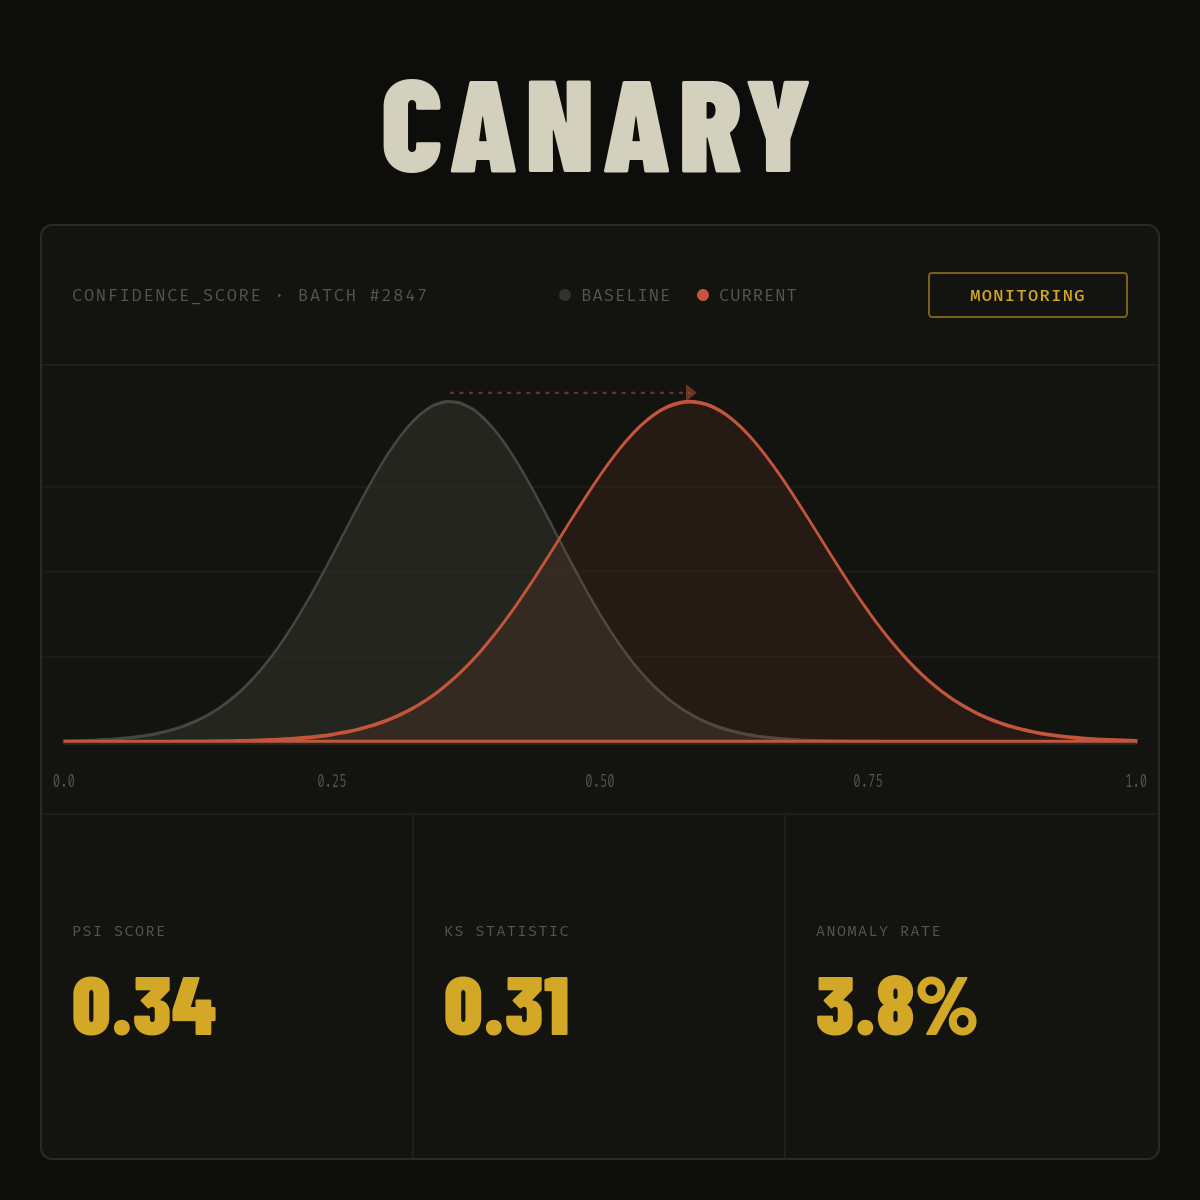
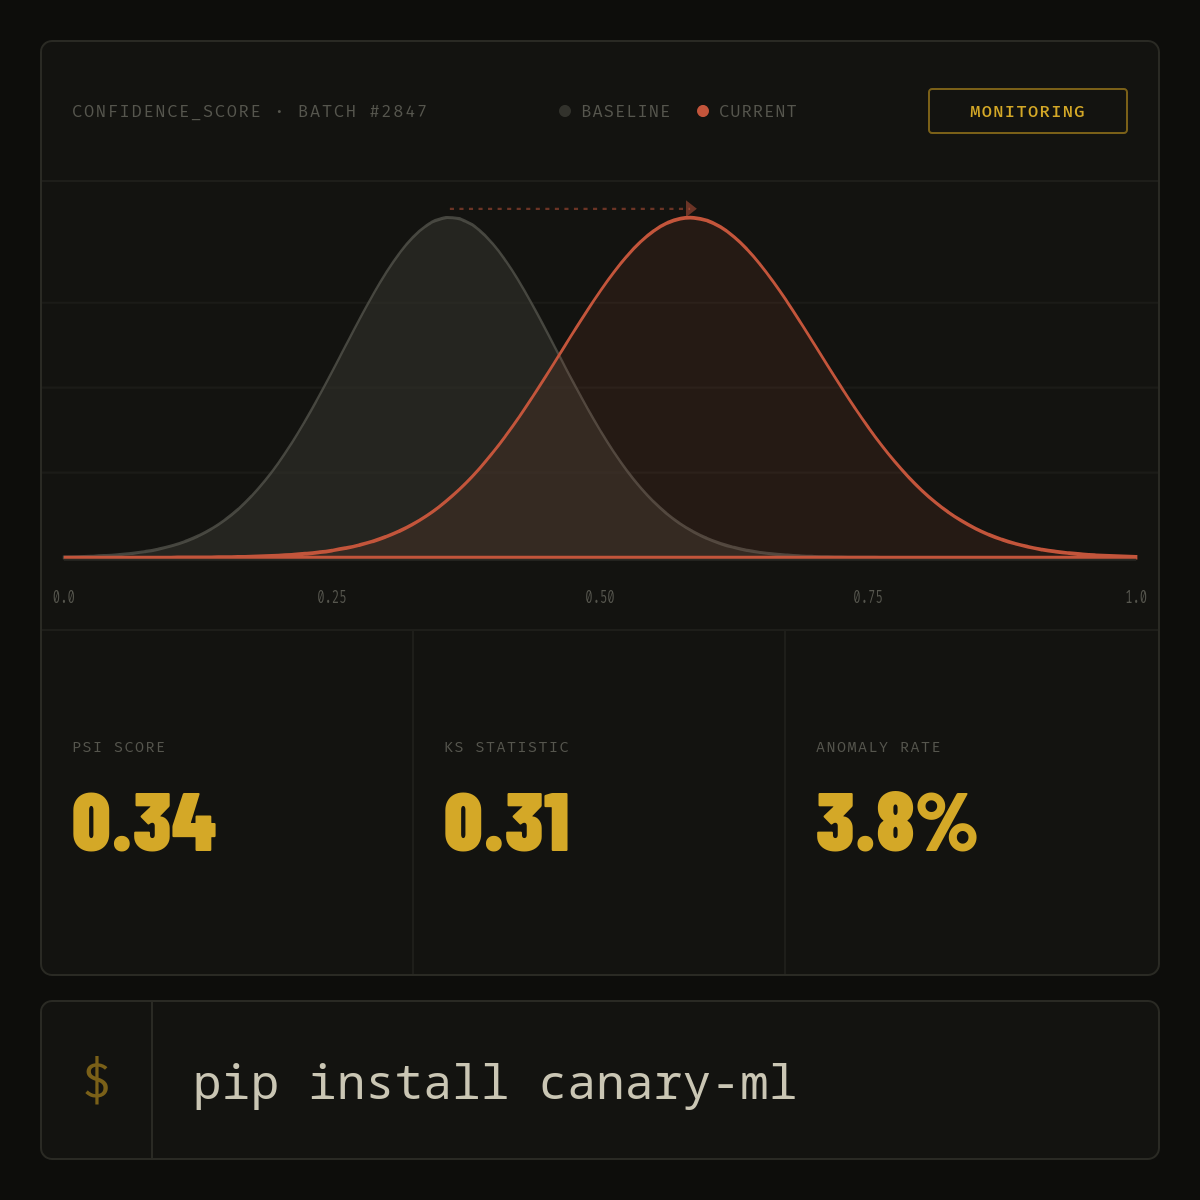
docs: add preview image

diff --git a/README.md b/README.md
@@ -11,6 +11,8 @@ One line wraps your model. Every `.predict()` call logs drift metrics, detects a
 
 [Project page](https://aitor1717.github.io/canary-ml/) · [Guide & manual](https://aitor1717.github.io/canary-ml/guide.html) · [Live demo](https://aitor1717.github.io/canary-ml/demo.html)
 
+![canary-ml dashboard preview](docs/preview.png)
+
 ---
 
 ## Install
@@ -141,16 +143,6 @@ ModelMonitor(
 | `timestamp` | `str` | ISO 8601 |
 
 `DriftReport` is not directly JSON-serialisable. Use `report.to_dict()` for logging or `json.dumps(report.to_dict())`. Dict-style access (`report["psi_score"]`) is also supported.
-
----
-
-## Testing
-
-```bash
-pip install -e ".[dev]"
-pytest                        # 56 tests
-pytest --cov=canary_ml
-```
 
 ---
 